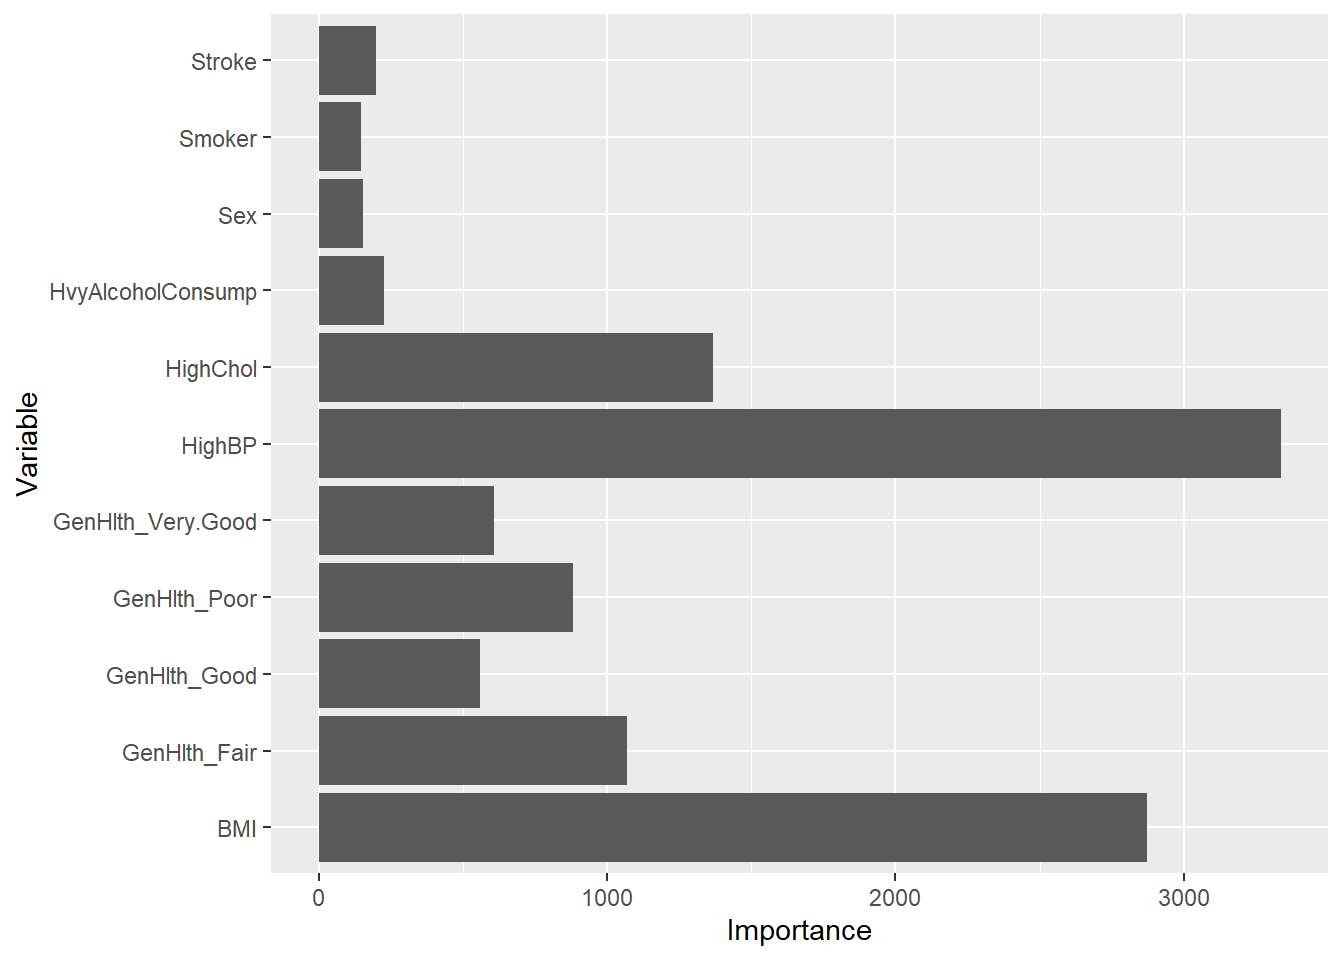
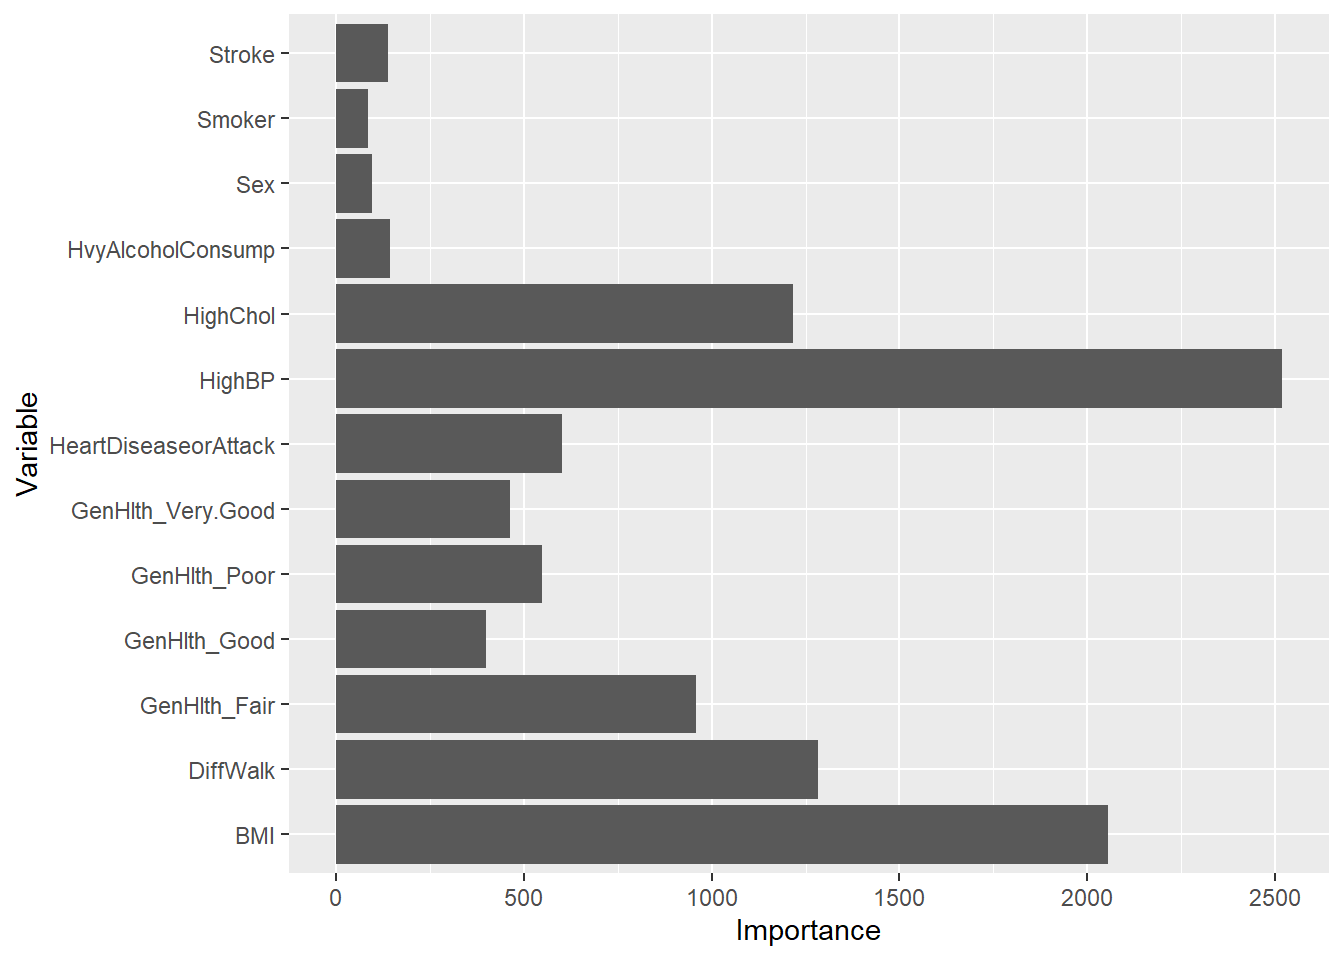
Finalize model parameters. Update API.R file

diff --git a/docs/Modeling.html b/docs/Modeling.html
@@ -161,7 +161,7 @@ pre > code.sourceCode > span > a:first-child::before { text-decoration: underlin
 ✖ dplyr::lag()      masks stats::lag()
 ✖ yardstick::spec() masks readr::spec()
 ✖ recipes::step()   masks stats::step()
-• Search for functions across packages at https://www.tidymodels.org/find/</code></pre>
+• Learn how to get started at https://www.tidymodels.org/start/</code></pre>
 </div>
 <div class="sourceCode cell-code" id="cb5"><pre class="sourceCode r code-with-copy"><code class="sourceCode r"><span id="cb5-1"><a href="#cb5-1" aria-hidden="true" tabindex="-1"></a><span class="fu">library</span>(rpart)</span></code><button title="Copy to Clipboard" class="code-copy-button"><i class="bi"></i></button></pre></div>
 <div class="cell-output cell-output-stderr">
@@ -237,7 +237,7 @@ The following object is masked from 'package:utils':
 <h2 class="anchored" data-anchor-id="training-test-and-folds">Training, Test and Folds</h2>
 <p>We want to split our data into a 70% training and 30% test set. For fitting our models, we also want 5 folds from our training set for cross-validation.</p>
 <p>We’ll set a seed as well to make sure our results, and comments about those results, are reproducible.</p>
-<p>The below output is of our split showing ~178k records ino ur training set and ~76k records in our test set.</p>
+<p>The below output is of our split showing ~178k records into our training set and ~76k records in our test set.</p>
 <div class="cell">
 <div class="sourceCode cell-code" id="cb13"><pre class="sourceCode r code-with-copy"><code class="sourceCode r"><span id="cb13-1"><a href="#cb13-1" aria-hidden="true" tabindex="-1"></a><span class="fu">set.seed</span>(<span class="dv">123</span>)</span>
 <span id="cb13-2"><a href="#cb13-2" aria-hidden="true" tabindex="-1"></a></span>
@@ -262,10 +262,10 @@ The following object is masked from 'package:utils':
 <p>A classification tree is a tree-based model aimed at placing subjects (classifying) into a single category (outcome) based on what we know about them (inputs).</p>
 <p>The tree starts with a node and uses log-loss to determine a split (branches). After that split it goes to each child leaf node and repeats the process as many times as necessary or as many times as declared by the modeler.</p>
 <p><strong>Recipe</strong></p>
-<p>First we’ll construct our recipe. For this we’ll concentrate on the variables <code>BMI</code>,<code>HighBP</code>,<code>HighChol</code>,<code>GenHlth</code>,<code>Sex</code>,<code>Smoker</code>,<code>Stroke</code>,<code>HvyAlcoholConsump</code>.</p>
-<p>We’ll normalize our one numeric variables <code>BMI</code>. We’ll also add dummy variables for our one factor variable with multiple levels <code>GenHlth</code>. There is no need to update anything to an ID type because that does not exist in the data set.</p>
+<p>First we’ll construct our recipe. For this we’ll concentrate on the variables <code>BMI</code>,<code>HighBP</code>,<code>HighChol</code>,<code>GenHlth</code>,<code>Sex</code>,<code>Smoker</code>,<code>Stroke</code>,<code>HvyAlcoholConsump</code>,<code>DiffWalk</code>,<code>HeartDiseaseorAttack</code>.</p>
+<p>We’ll normalize our one numeric variable <code>BMI</code>. We’ll also add dummy variables for our one factor variable with multiple levels <code>GenHlth</code>. There is no need to update anything to an ID type because that does not exist in the data set.</p>
 <div class="cell">
-<div class="sourceCode cell-code" id="cb15"><pre class="sourceCode r code-with-copy"><code class="sourceCode r"><span id="cb15-1"><a href="#cb15-1" aria-hidden="true" tabindex="-1"></a>class_recipe <span class="ot">&lt;-</span> <span class="fu">recipe</span>(Diabetes_binary <span class="sc">~</span> BMI <span class="sc">+</span> HighBP <span class="sc">+</span> HighChol <span class="sc">+</span> GenHlth <span class="sc">+</span> Sex <span class="sc">+</span> Smoker <span class="sc">+</span> Stroke <span class="sc">+</span> HvyAlcoholConsump</span>
+<div class="sourceCode cell-code" id="cb15"><pre class="sourceCode r code-with-copy"><code class="sourceCode r"><span id="cb15-1"><a href="#cb15-1" aria-hidden="true" tabindex="-1"></a>class_recipe <span class="ot">&lt;-</span> <span class="fu">recipe</span>(Diabetes_binary <span class="sc">~</span> BMI <span class="sc">+</span> HighBP <span class="sc">+</span> HighChol <span class="sc">+</span> GenHlth <span class="sc">+</span> Sex <span class="sc">+</span> Smoker <span class="sc">+</span> Stroke <span class="sc">+</span> HvyAlcoholConsump <span class="sc">+</span> DiffWalk <span class="sc">+</span> HeartDiseaseorAttack</span>
 <span id="cb15-2"><a href="#cb15-2" aria-hidden="true" tabindex="-1"></a>                         , <span class="at">data =</span> data_train) <span class="sc">|&gt;</span></span>
 <span id="cb15-3"><a href="#cb15-3" aria-hidden="true" tabindex="-1"></a>  <span class="fu">step_normalize</span>(BMI) <span class="sc">|&gt;</span></span>
 <span id="cb15-4"><a href="#cb15-4" aria-hidden="true" tabindex="-1"></a>  <span class="fu">step_dummy</span>(GenHlth)</span>
@@ -287,8 +287,8 @@ The following object is masked from 'package:utils':
 <pre><code>Number of variables by role</code></pre>
 </div>
 <div class="cell-output cell-output-stderr">
-<pre><code>outcome:   1
-predictor: 8</code></pre>
+<pre><code>outcome:    1
+predictor: 10</code></pre>
 </div>
 <div class="cell-output cell-output-stderr">
 <pre><code></code></pre>
@@ -344,18 +344,18 @@ Computational engine: rpart </code></pre>
 <pre><code># A tibble: 15 × 7
    cost_complexity .metric     .estimator  mean     n  std_err .config          
              &lt;dbl&gt; &lt;chr&gt;       &lt;chr&gt;      &lt;dbl&gt; &lt;int&gt;    &lt;dbl&gt; &lt;chr&gt;            
- 1        1   e-10 mn_log_loss binary     0.357     5 0.000831 Preprocessor1_Mo…
- 2        4.39e-10 mn_log_loss binary     0.357     5 0.000831 Preprocessor1_Mo…
- 3        1.93e- 9 mn_log_loss binary     0.357     5 0.000831 Preprocessor1_Mo…
- 4        8.48e- 9 mn_log_loss binary     0.357     5 0.000831 Preprocessor1_Mo…
- 5        3.73e- 8 mn_log_loss binary     0.357     5 0.000831 Preprocessor1_Mo…
- 6        1.64e- 7 mn_log_loss binary     0.357     5 0.000831 Preprocessor1_Mo…
- 7        7.20e- 7 mn_log_loss binary     0.357     5 0.000831 Preprocessor1_Mo…
- 8        3.16e- 6 mn_log_loss binary     0.357     5 0.000831 Preprocessor1_Mo…
- 9        1.39e- 5 mn_log_loss binary     0.357     5 0.000831 Preprocessor1_Mo…
-10        6.11e- 5 mn_log_loss binary     0.357     5 0.000831 Preprocessor1_Mo…
-11        2.68e- 4 mn_log_loss binary     0.357     5 0.000831 Preprocessor1_Mo…
-12        1.18e- 3 mn_log_loss binary     0.357     5 0.000831 Preprocessor1_Mo…
+ 1        1   e-10 mn_log_loss binary     0.357     5 0.000816 Preprocessor1_Mo…
+ 2        4.39e-10 mn_log_loss binary     0.357     5 0.000816 Preprocessor1_Mo…
+ 3        1.93e- 9 mn_log_loss binary     0.357     5 0.000816 Preprocessor1_Mo…
+ 4        8.48e- 9 mn_log_loss binary     0.357     5 0.000816 Preprocessor1_Mo…
+ 5        3.73e- 8 mn_log_loss binary     0.357     5 0.000816 Preprocessor1_Mo…
+ 6        1.64e- 7 mn_log_loss binary     0.357     5 0.000816 Preprocessor1_Mo…
+ 7        7.20e- 7 mn_log_loss binary     0.357     5 0.000816 Preprocessor1_Mo…
+ 8        3.16e- 6 mn_log_loss binary     0.357     5 0.000816 Preprocessor1_Mo…
+ 9        1.39e- 5 mn_log_loss binary     0.357     5 0.000816 Preprocessor1_Mo…
+10        6.11e- 5 mn_log_loss binary     0.357     5 0.000816 Preprocessor1_Mo…
+11        2.68e- 4 mn_log_loss binary     0.357     5 0.000816 Preprocessor1_Mo…
+12        1.18e- 3 mn_log_loss binary     0.357     5 0.000842 Preprocessor1_Mo…
 13        5.18e- 3 mn_log_loss binary     0.403     5 0.000693 Preprocessor1_Mo…
 14        2.28e- 2 mn_log_loss binary     0.403     5 0.000693 Preprocessor1_Mo…
 15        1   e- 1 mn_log_loss binary     0.403     5 0.000693 Preprocessor1_Mo…</code></pre>
@@ -364,7 +364,7 @@ Computational engine: rpart </code></pre>
 <p><strong>Test Measure</strong></p>
 <p>We’ll use our the value for <code>cost_complexity</code> that led to the lowest <code>mn_log_loss</code> value. We’ll use this to finalize our workflow.</p>
 <p>With this finalized workflow, we’ll fit the data on our entire training set and evaluate against the test set keeping log-loss our our metric.</p>
-<p>Below you can see the metrics of our model against the test set. This will come in handy later when selecting our model. We see here our log-loss is estimated at <code>0.355</code>.</p>
+<p>Below you can see the metrics of our model against the test set. This will come in handy later when selecting our model. We see here our log-loss is estimated at <code>0.356</code>.</p>
 <div class="cell">
 <div class="sourceCode cell-code" id="cb30"><pre class="sourceCode r code-with-copy"><code class="sourceCode r"><span id="cb30-1"><a href="#cb30-1" aria-hidden="true" tabindex="-1"></a>class_best_params <span class="ot">&lt;-</span> <span class="fu">select_best</span>(class_fits, <span class="at">metric =</span> <span class="st">"mn_log_loss"</span>)</span>
 <span id="cb30-2"><a href="#cb30-2" aria-hidden="true" tabindex="-1"></a></span>
@@ -382,7 +382,7 @@ Computational engine: rpart </code></pre>
 <pre><code># A tibble: 1 × 4
   .metric     .estimator .estimate .config             
   &lt;chr&gt;       &lt;chr&gt;          &lt;dbl&gt; &lt;chr&gt;               
-1 mn_log_loss binary         0.358 Preprocessor1_Model1</code></pre>
+1 mn_log_loss binary         0.359 Preprocessor1_Model1</code></pre>
 </div>
 </div>
 </section>
@@ -416,19 +416,20 @@ Computational engine: rpart </code></pre>
 <div class="sourceCode cell-code" id="cb35"><pre class="sourceCode r code-with-copy"><code class="sourceCode r"><span id="cb35-1"><a href="#cb35-1" aria-hidden="true" tabindex="-1"></a>rf_fit <span class="sc">|&gt;</span></span>
 <span id="cb35-2"><a href="#cb35-2" aria-hidden="true" tabindex="-1"></a>  <span class="fu">collect_metrics</span>()</span></code><button title="Copy to Clipboard" class="code-copy-button"><i class="bi"></i></button></pre></div>
 <div class="cell-output cell-output-stdout">
-<pre><code># A tibble: 4 × 7
+<pre><code># A tibble: 5 × 7
    mtry .metric     .estimator  mean     n  std_err .config             
   &lt;int&gt; &lt;chr&gt;       &lt;chr&gt;      &lt;dbl&gt; &lt;int&gt;    &lt;dbl&gt; &lt;chr&gt;               
-1     5 mn_log_loss binary     0.325     5 0.00131  Preprocessor1_Model1
-2     8 mn_log_loss binary     0.332     5 0.00145  Preprocessor1_Model2
-3     2 mn_log_loss binary     0.330     5 0.000996 Preprocessor1_Model3
-4    11 mn_log_loss binary     0.383     5 0.00280  Preprocessor1_Model4</code></pre>
+1     5 mn_log_loss binary     0.324     5 0.00103  Preprocessor1_Model1
+2     9 mn_log_loss binary     0.337     5 0.000943 Preprocessor1_Model2
+3     6 mn_log_loss binary     0.326     5 0.00103  Preprocessor1_Model3
+4     3 mn_log_loss binary     0.323     5 0.000947 Preprocessor1_Model4
+5    12 mn_log_loss binary     0.354     5 0.000728 Preprocessor1_Model5</code></pre>
 </div>
 </div>
 <p><strong>Test Measure</strong></p>
 <p>We’ll use our value for <code>mtry</code> that led to the lowest <code>mn_log_loss</code> value. We’ll use this to finalize our workflow.</p>
 <p>With this finalized workflow, we’ll fit the data on our entire training set and evaluate against the test set keeping log-loss our our metric.</p>
-<p>Below you can see the metrics of our model against the test set. This will come in handy later when selecting our model. We see here our log-loss is estimated at <code>0.323</code>.</p>
+<p>Below you can see the metrics of our model against the test set. This will come in handy later when selecting our model. We see here our log-loss is estimated at <code>0.324</code>.</p>
 <div class="cell">
 <div class="sourceCode cell-code" id="cb37"><pre class="sourceCode r code-with-copy"><code class="sourceCode r"><span id="cb37-1"><a href="#cb37-1" aria-hidden="true" tabindex="-1"></a>rf_best_params <span class="ot">&lt;-</span> <span class="fu">select_best</span>(rf_fit, <span class="at">metric =</span> <span class="st">"mn_log_loss"</span>)</span>
 <span id="cb37-2"><a href="#cb37-2" aria-hidden="true" tabindex="-1"></a></span>
@@ -446,7 +447,7 @@ Computational engine: rpart </code></pre>
 <pre><code># A tibble: 1 × 4
   .metric     .estimator .estimate .config             
   &lt;chr&gt;       &lt;chr&gt;          &lt;dbl&gt; &lt;chr&gt;               
-1 mn_log_loss binary         0.327 Preprocessor1_Model1</code></pre>
+1 mn_log_loss binary         0.325 Preprocessor1_Model1</code></pre>
 </div>
 </div>
 </section>
@@ -460,8 +461,8 @@ Computational engine: rpart </code></pre>
 <pre><code># A tibble: 2 × 4
   .metric     .estimator .estimate .config             
   &lt;chr&gt;       &lt;chr&gt;          &lt;dbl&gt; &lt;chr&gt;               
-1 mn_log_loss binary         0.358 Preprocessor1_Model1
-2 mn_log_loss binary         0.327 Preprocessor1_Model1</code></pre>
+1 mn_log_loss binary         0.359 Preprocessor1_Model1
+2 mn_log_loss binary         0.325 Preprocessor1_Model1</code></pre>
 </div>
 </div>
 </section>
